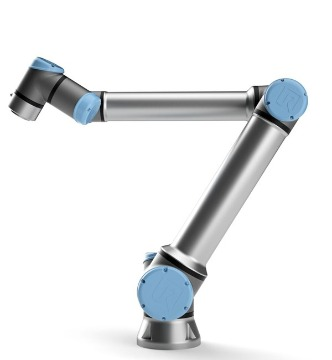
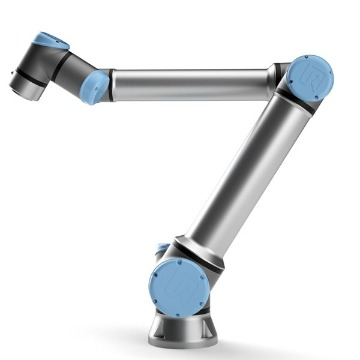
Properly sized robot images

Changed region(s): [[0.0301, 0.0917, 0.9337, 0.9778]]

diff --git a/docs/Technologies/Technologies.md b/docs/Technologies/Technologies.md
@@ -14,10 +14,10 @@ CSS utility classes come in handy when you to want to override default styles to
 
 
 [![](../../assets/images/kr10.jpg)](technologies/kr10).
-[![](../../assets/images/ur10e.jpg)](technologies/kr10).
+[![](../../assets/images/ur30.jpg)](technologies/kr10).
 
 
 [![](../../assets/images/ur10e.jpg)](technologies/kr10).
-[![](../../assets/images/kr10.jpg)](technologies/kr10).
+[![](../../assets/images/ur16.jpg)](technologies/kr10).
 
 
